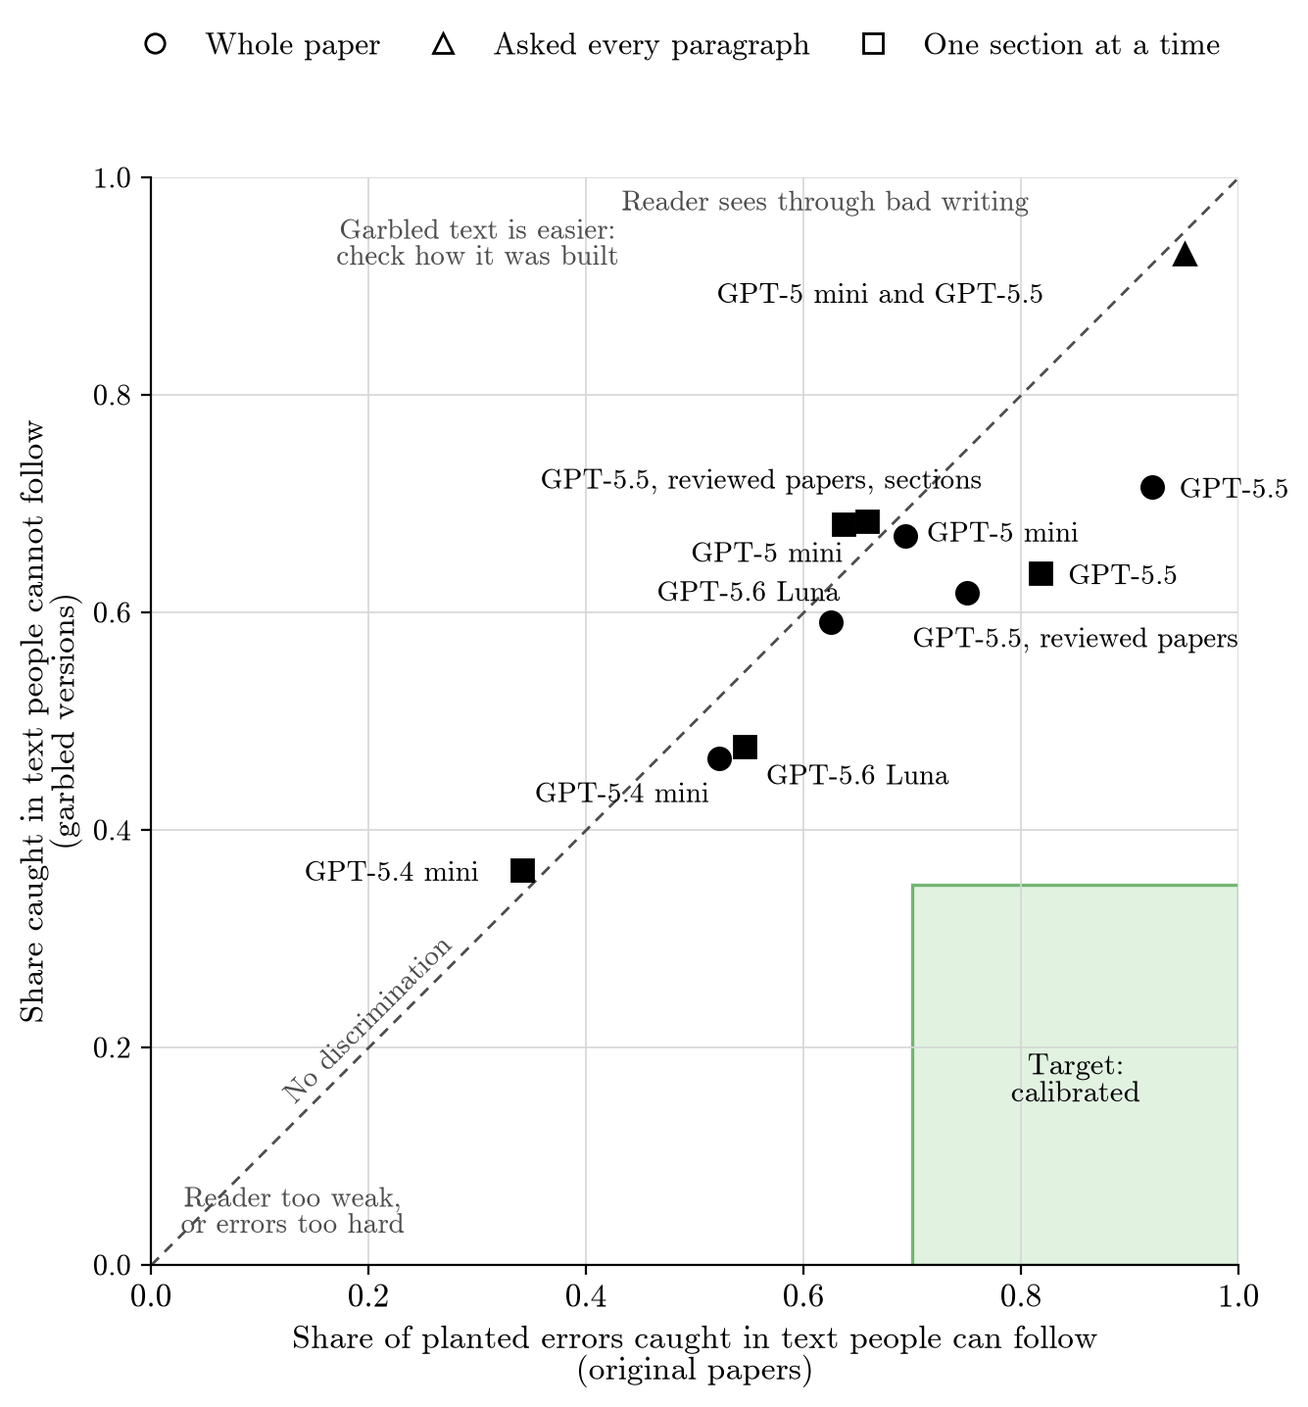
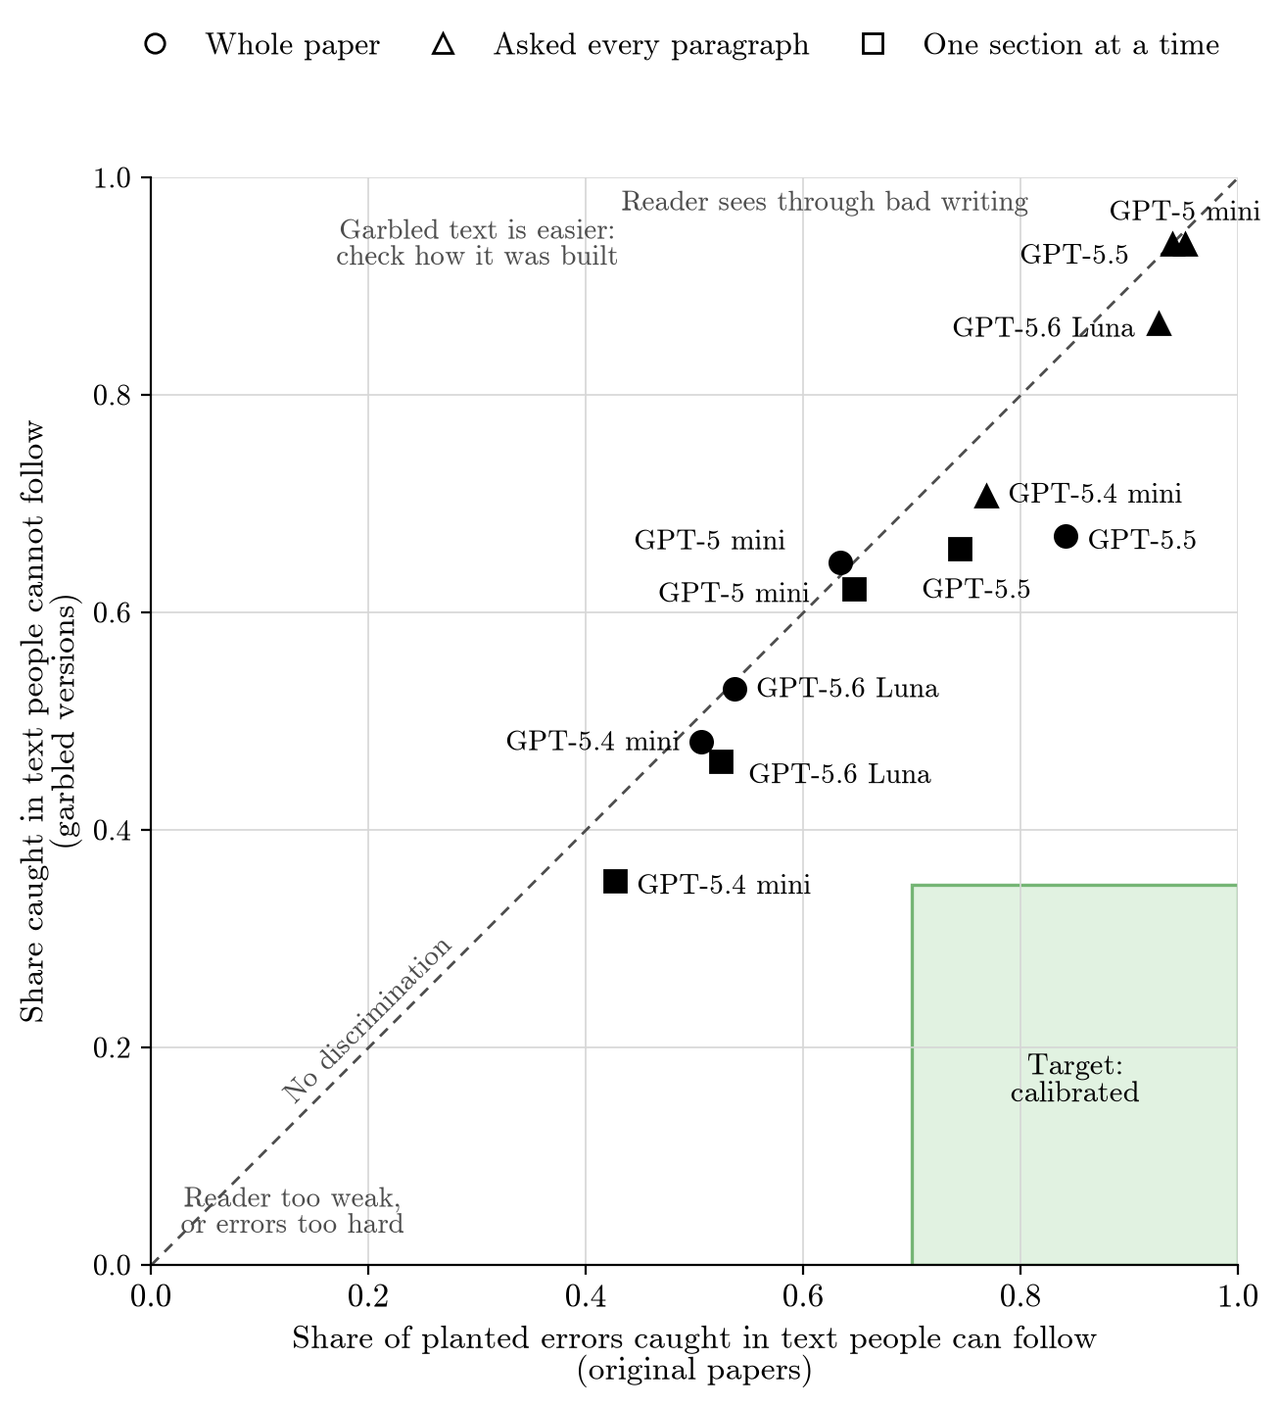
Part 2: final version, every figure pooled over ten papers with all four readers

diff --git a/posts/part-2-planted-errors.md b/posts/part-2-planted-errors.md
@@ -4,7 +4,7 @@ Jason Fantl, Averroes Labs · November 2026 · Part 2
 
 *Preliminary internal results. This follows [Part 1](part-1-quiz.md).*
 
-**TL;DR.** In Part 1, rewriting papers to be hard to follow barely lowered a model's quiz score. Here we tried a more direct test of legibility, following a suggestion from Jan Kirchner. We planted an error in a paper, asked a model to find it, and planted the same error in a garbled version of the same paper. If writing quality matters to the reader, it should find fewer errors in the garbled one. With the whole paper in view, three of our four readers found about as many errors in garbled text as in the originals. The strongest, GPT-5.5, found clearly fewer, both on the four papers we designed the test with and on six peer-reviewed papers that played no part in the design. Asked about every paragraph in turn, GPT-5 mini and GPT-5.5 caught nearly every error in every version, but flagged more correct paragraphs in the garbled versions. So bad writing rarely stops a model from judging an error, but it can cost a strong reader in search and make a reader more suspicious of correct text. Of the changes we tried, only the choice of reader and the size of its memory moved a setting toward a calibrated test, so those are the levers to work with next.
+**TL;DR.** In Part 1, rewriting papers to be hard to follow barely lowered a model's quiz score. Here we tried a more direct test of legibility, following a suggestion from Jan Kirchner. We planted an error in a paper, asked a model to find it, and planted the same error in a garbled version of the same paper. If writing quality matters to the reader, it should find fewer errors in the garbled one. With the whole paper in view, three of our four readers found about as many errors in garbled text as in the originals. The strongest, GPT-5.5, found clearly fewer, both on the four papers we designed the test with and on six peer-reviewed papers that played no part in the design. Asked about every paragraph in turn, the readers caught most errors in every version, but all four flagged more correct paragraphs in the garbled versions. So bad writing rarely stops a model from judging an error, but it can cost a strong reader in search and make any reader more suspicious of correct text. Of the changes we tried, only the choice of reader moved a setting toward a calibrated test, so that is the lever to work with next.
 
 ## Why we tried catching errors
 
@@ -18,7 +18,7 @@ His games trained a "sneaky" model to write such mistakes, which is tricky and p
 
 The test is as simple as we could make it. Plant one error in a paper and ask a weak model to review the paper for internal inconsistencies. Then plant the same error in a garbled version of the same paper and ask again, and repeat over many errors. If the reader finds fewer errors in the garbled version, its success depends on how the paper is written, which is what a legibility test needs. Nothing else is required, no quiz and no rewritten reference copy, only the paper, the errors and the reader.
 
-**Papers.** Ten in all. The first four are the papers we started with, three of Part 1's arXiv preprints and the 2014 JMLR Dropout paper. We later added six papers accepted at peer-reviewed venues, drawn at random across lengths of about 4,000 to 15,000 words before anyone read them. Some experiments ran only on the first four.
+**Papers.** Ten in all. The first four are the papers we started with, three of Part 1's arXiv preprints and the 2014 JMLR Dropout paper. We later added six papers accepted at peer-reviewed venues, drawn at random across lengths of about 4,000 to 15,000 words before anyone read them.
 
 **Garbled versions.** Each stacks every kind of difficulty we had. It compresses the paper to about two thirds of its length, swaps terms for opaque codes, moves evidence away from the claims it supports, and leaves connecting steps unstated. GPT-6.1 Sol checked it against the original until no fact or number was lost.
 
@@ -28,7 +28,7 @@ The test is as simple as we could make it. Plant one error in a paper and ask a 
 
 **Readers.** We used OpenAI models only, the API we had. From strongest to weakest by how many errors they found, they were GPT-5.5 at low effort, GPT-5 mini at high effort, GPT-5.6 Luna at low effort and GPT-5.4 mini at medium effort, and every figure orders them that way. In the main test, each reader gets the whole paper and lists any internal inconsistencies, or none. Results 2 and 3 vary how the reader is asked and how much of the paper it can see. A cheap model graded whether each review named the planted error.
 
-Everything here cost about $1,200 in API calls at OpenAI's list prices.
+Everything here cost about $1,500 in API calls at OpenAI's list prices.
 
 ## Result 1: with the whole paper, only the strongest reader finds fewer errors in garbled text
 
@@ -40,27 +40,27 @@ Each reader reviewed the whole paper and listed any internal inconsistencies. GP
 
 For three readers that made almost no difference, which is Part 1's result again from a different direction. GPT-5.5's gap is the first sign that a reader with the whole paper in view can pay for bad writing, and the first result in this project to hold on papers outside the set we designed with. It is still one reader of four on ten papers, and its catch rates on the two versions remain close enough that it cannot yet sort a single paper as legible or not.
 
-## Result 2: asked about every paragraph, the reader catches nearly every error but flags more correct text when it is garbled
+## Result 2: asked about every paragraph, readers catch most errors but flag more correct text when it is garbled
 
-![Every-paragraph check pooled over ten papers, GPT-5.5 then GPT-5 mini. Left, share of planted errors caught, about 0.94 in every version. Right, other paragraphs flagged per 1,000 words, higher in the garbled versions for both readers.](../docs/blog/part-2/fig-2-every-paragraph.png)
+![Every-paragraph check pooled over ten papers, four readers from strongest to weakest. Left, share of planted errors caught, 0.87 to 0.99 for the three stronger readers in every version. Right, other paragraphs flagged per 1,000 words, highest in the garbled versions and lowest in the clarified ones for every reader.](../docs/blog/part-2/fig-2-every-paragraph.png)
 
-**Figure 2.** The reader has the whole paper and is asked about each paragraph in turn whether it is consistent with the rest. Left, the share of planted errors caught. Right, other paragraphs flagged per 1,000 words, including real inconsistencies already in the original papers. Hatching as in Figure 1. Whiskers are 95% intervals. GPT-5.5 was not run on the clarified originals, to save cost.
+**Figure 2.** The reader has the whole paper and is asked about each paragraph in turn whether it is consistent with the rest. Left, the share of planted errors caught. Right, other paragraphs flagged per 1,000 words, including real inconsistencies already in the original papers. Hatching as in Figure 1. Whiskers are 95% intervals.
 
 Result 2 removes the search step. The reader still has the whole paper, but we ask about every paragraph in turn, so it cannot miss an error by never looking at it. Because most paragraphs hold no error, this also measures how often the reader flags correct text.
 
-GPT-5 mini caught nearly every planted error this way, in all three versions, so without the search garbling no longer hid errors. It did flag more correct paragraphs in the garbled versions, 4.3 per 1,000 words against 2.8 in the originals (a difference of 1.5, interval 1.0 to 2.1), and more on nine of the ten papers taken one at a time. GPT-5.5 behaved the same way, more mildly. It caught 0.94 of the errors in both versions and flagged 3.5 correct paragraphs per 1,000 words in the garbled versions against 2.5 in the originals (a difference of 1.0, interval 0.5 to 1.6), again more on nine of the ten papers. Some flags land on real contradictions in the original papers, such as a count given as 15,840 in the abstract and 18,480 later, and these raise every version alike. The extra flags on garbled text are a second place a legibility signal could show up, next to missed errors.
+The three stronger readers caught 0.87 to 0.99 of the planted errors this way in every version, so without the search, garbling no longer hid errors from them. GPT-5.4 mini, the weakest, caught fewer, 0.77 in the originals and 0.71 in the garbled versions. Every reader flagged more correct paragraphs in the garbled versions than in the originals, and the fewest in the clarified ones. GPT-5 mini flagged 4.3 per 1,000 words in the garbled versions against 2.8 in the originals (a difference of 1.5, interval 1.0 to 2.1), GPT-5.5 3.5 against 2.5, GPT-5.6 Luna 3.2 against 2.3, and GPT-5.4 mini, which flags least overall, 1.5 against 1.0. All four differences have intervals above zero. Some flags land on real contradictions in the original papers, such as a count given as 15,840 in the abstract and 18,480 later, and these raise every version alike. The extra flags on garbled text are a second place a legibility signal could show up, next to missed errors.
 
 We also told all four readers which passage holds the error and asked only about that passage. Each judged the error about as well in garbled text as in the original, catching 0.82 to 0.98 of errors in the garbled versions and 0.90 to 0.99 in the originals over all ten papers. So what bad writing costs these readers lies in finding errors and in flagging correct text, not in judging them.
 
-## Result 3: reading one section at a time, only GPT-5.5 found fewer errors, and not on new papers
+## Result 3: reading one section at a time, every reader found slightly fewer errors in garbled text
 
-![Share of planted errors found by readers that see one section at a time, strongest to weakest, in clarified, original and garbled versions. Only GPT-5.5 finds fewer in the garbled version on the first four papers, and not on six reviewed papers. Clarified versions score highest.](../docs/blog/part-2/fig-3-section-by-section.png)
+![Share of planted errors found by four readers that see one section at a time, pooled over ten papers, in clarified, original and garbled versions. Every reader finds slightly fewer in the garbled version and the most in the clarified one.](../docs/blog/part-2/fig-3-section-by-section.png)
 
-**Figure 3.** Share of planted errors found by readers that read each paper once, one section at a time, with notes of at most 300 words. The first four groups read the first four papers, the only ones these readers saw this way. The last group, right of the dotted line, is GPT-5.5, the one reader that showed a gap there, with its settings frozen and run on the six reviewed papers. Hatching and whiskers as in Figure 1.
+**Figure 3.** Share of planted errors found by readers that read each paper once, one section at a time, with notes of at most 300 words, pooled over all ten papers. Hatching and whiskers as in Figure 1.
 
 Result 3 makes the reader read more like a person. It goes through the paper once, one section at a time, rewrites notes of at most 300 words after each section, and cannot look back. A code defined pages earlier, or evidence far from its claim, should then cost it something.
 
-For three of the four readers it did not. GPT-5.5 found 0.82 of the errors in the originals and 0.64 in the garbled versions, a difference of 0.18 (interval 0.02 to 0.34), but with its settings frozen the difference vanished on the six reviewed papers, at 0.66 against 0.68. The clarified versions helped every reader, so reading section by section made the readers sensitive to clearer writing, but not reliably to worse writing.
+Every reader found a few more errors in the originals than in the garbled versions, from 0.02 more for GPT-5 mini to 0.09 more for GPT-5.5, but every interval includes zero. The two sets of papers also disagreed. GPT-5.5's gap was 0.18 on the first four papers and vanished on the six reviewed ones, while GPT-5.4 mini showed no gap on the first four and 0.18 on the reviewed ones. Every reader found the most errors in the clarified versions, so reading section by section made the readers sensitive to clearer writing, but not reliably to worse writing.
 
 ## Toward a calibrated test
 
@@ -68,17 +68,17 @@ The line between legible and illegible is drawn by people. A paper they can foll
 
 To calibrate, we would run a setting on text whose legibility to people we already know, such as published papers, which people can follow, and garbled versions, which they cannot. A calibrated setting catches most errors in the first and few in the second. We have not done this tuning yet. Every setting in this post was fixed before we ran it, so Figure 4 only maps where those settings landed.
 
-![Calibration map: each reader setting's catch rate on original papers against its catch rate on garbled versions. Most settings sit near the diagonal; GPT-5.5 with the whole paper sits below it, still far above the green target corner. Asked about every paragraph, GPT-5 mini and GPT-5.5 both sit at the top corner.](../docs/blog/part-2/fig-4-calibration-map.png)
+![Calibration map pooled over ten papers: each reader setting's catch rate on original papers against its catch rate on garbled versions. Most settings sit near the diagonal; GPT-5.5 with the whole paper sits below it, still far above the green target corner. Asked about every paragraph, the readers sit near the top corner.](../docs/blog/part-2/fig-4-calibration-map.png)
 
-**Figure 4.** Each point is one reader setting. Its position shows the share of planted errors caught in the original papers (horizontal) and in their garbled versions (vertical). Circles read the whole paper, triangles were asked about every paragraph, and squares read one section at a time. On the dashed diagonal a setting cannot tell the two apart, and the green corner is the target.
+**Figure 4.** Each point is one reader setting, pooled over all ten papers. Its position shows the share of planted errors caught in the original papers (horizontal) and in their garbled versions (vertical). Circles read the whole paper, triangles were asked about every paragraph, and squares read one section at a time. On the dashed diagonal a setting cannot tell the two apart, and the green corner is the target.
 
 Most settings sit near the diagonal. To calibrate, we need to know which changes move a setting off it and in which direction, so Figure 5 traces every change we have measured on the same map.
 
-![Six small calibration maps on full 0 to 1 axes, one per change: which reader, whole paper to one section at a time, smaller notes for GPT-5.5, being told where the error is, and GPT-5.5's errors split by difficulty and by distance to the evidence. Arrows show how each change moved the setting; the green corner is the target.](../docs/blog/part-2/fig-5-levers.png)
+![Six small calibration maps on full 0 to 1 axes, pooled over ten papers, one per change: which reader, whole paper to one section at a time, smaller notes for GPT-5.5, being told where the error is, and GPT-5.5's errors split by difficulty and by distance to the evidence. Arrows show how each change moved the setting; the green corner is the target.](../docs/blog/part-2/fig-5-levers.png)
 
-**Figure 5.** Each panel is the map of Figure 4, with the same axes, for one kind of change, measured on the first four papers, the only ones every setting was run on. Arrows run from the starting setting (open circle) to the changed one (filled circle). The last two panels split GPT-5.5's 44 errors by the difficulty each was built at and by how far its contradicting evidence sits, 11 to 19 errors per subset.
+**Figure 5.** Each panel is the map of Figure 4, with the same axes, for one kind of change, pooled over all ten papers. Arrows run from the starting setting (open circle) to the changed one (filled circle). The last two panels split GPT-5.5's errors into three groups each, by the difficulty each was built at and by how far its contradicting evidence sits.
 
-Only two changes moved a setting off the diagonal. The first is the choice of reader. GPT-5.5 is the one reader whose catch rate falls on garbled text, and it stays below the diagonal whether it reads the whole paper or one section at a time. The second is memory. Cutting GPT-5.5's notes from 1,200 words to 300 cost it a few errors in the originals and many more in the garbled versions, so its gap grew as the notes shrank. Everything else slid settings along the diagonal or up to the top corner. Reading one section at a time made the weaker readers miss more errors in both versions alike, and telling readers where the error is moved them all to the ceiling.
+Only one change moved a setting off the diagonal, the choice of reader. GPT-5.5 is the one reader whose catch rate falls clearly on garbled text, and it stays below the diagonal whether it reads the whole paper or one section at a time. Its memory did not matter. Cutting its notes from 1,200 words to 300 cost it errors in both versions alike, so the setting slid along the diagonal with its gap fixed at about 0.09. Everything else also slid settings along the diagonal or up to the top corner. Reading one section at a time made the weaker readers miss more errors in both versions, and telling readers where the error is moved them all to the ceiling.
 
 The errors themselves gave little to work with. Splitting GPT-5.5's errors by difficulty or by distance to the evidence moved it around a small region below the diagonal, and no subset came near the target. These subsets are small, so we read nothing more into them.
 
@@ -86,11 +86,11 @@ None of this is specific to planted errors. Part 1's quiz can be calibrated the 
 
 ## What this means
 
-A direct test of legibility needs a reader that pays something for bad writing. With the whole paper in view, three of our four readers pay almost nothing. GPT-5.5 pays in finding errors, on new papers as well as the ones we designed with, though the cost is still too small to sort a single paper. Asked about every paragraph, GPT-5 mini and GPT-5.5 pay in another way, by flagging more correct text when it is garbled.
+A direct test of legibility needs a reader that pays something for bad writing. With the whole paper in view, three of our four readers pay almost nothing. GPT-5.5 pays in finding errors, on new papers as well as the ones we designed with, though the cost is still too small to sort a single paper. Asked about every paragraph, all four readers pay in another way, by flagging more correct text when it is garbled.
 
 Several parts of the test work, and all of them need nothing but the paper itself. Errors can be planted and checked automatically, readers rarely accuse clean papers of them, a cheap grader scores reviews reliably, and pointed questions separate finding an error from judging it.
 
-The method may still work. Every reader found more errors in the clarified versions, so readers do respond to how text is written, and the two changes that moved a setting off the diagonal, a strong reader and a small memory, both make the reader pay for bad writing.
+The method may still work. Every reader found the most errors and raised the fewest false alarms in the clarified versions, so readers do respond to how text is written. A stronger reader was the one change that made a reader pay for bad writing in finding errors, and stronger readers keep arriving.
 
 ## Related work
 
@@ -105,14 +105,14 @@ People have been tested in pieces of this design, never as a whole. Peer reviewe
 ## Limitations
 
 - **Small samples.** The first four papers have 44 errors and the six reviewed papers 38. That gives intervals of about ±0.1 on rates over all ten papers and ±0.15 on rates over four.
-- **Many tries.** We tried several readers and ways of asking, and two combinations, both with GPT-5.5, showed a difference on the first four papers. In that many tries, some result is likely to look good by chance. The section-by-section difference did not hold on the reviewed papers and the whole-paper one did, but it is still one reader on ten papers. The false-alarm difference in Result 2 was not planned as a test before we saw it, and its intervals cover paragraphs, not differences between papers.
+- **Many tries.** We tried several readers and ways of asking, and in that many tries some result is likely to look good by chance. Section-by-section gaps appeared for one reader on one set of papers and not on the other. GPT-5.5's whole-paper gap held on both sets, but it is still one reader on ten papers. The false-alarm difference in Result 2 was not planned as a test before we saw it, and its intervals cover paragraphs, not differences between papers.
 - **The garbled versions were not checked with people.** We assume they are hard for a person to follow, and Result 1 suggests they are not hard for most models. If they are easy for people too, the test was never really challenged.
 - **Legibility to people is assumed, not measured.** We treat the original and peer-reviewed papers as legible because they were written and reviewed for people. We have not measured how people read them.
 - **One provider.** Every reader, writer and grader was an OpenAI model, so their blind spots may be shared.
 - **Our errors.** We chose the error templates. Two kinds, a result left out of a summary and a claim with no support, could not yet be tested properly, and naturally occurring errors may behave differently.
 - **A strong model is the referee.** GPT-6.1 Sol built and checked the errors, the garbled versions and the clarified versions. Its own mistakes would pass into the results unnoticed.
 
-The next step is to calibrate for real. We would try these levers on the first four papers, pick a setting by a rule fixed in advance, check it on the six reviewed papers, and only then run it once on nine papers held out from everything so far. The repository that accompanies this post holds the code, prompts, raw model outputs and every experiment's preregistered predictions, so each result here can be rerun. A detailed reference report written for AI agents, [`docs/part2-agent-report.md`](../docs/part2-agent-report.md), gathers every number behind this post with its source, so an agent can answer questions about it without searching the repository.
+The next step is to calibrate for real. We would try these levers on the first four papers, pick a setting by a rule fixed in advance, check it on the six reviewed papers, and only then run it once on nine papers held out from everything so far. The repository that accompanies this post holds the code, prompts, raw model outputs and every experiment's preregistered predictions, so each result here can be rerun. A detailed reference report written for AI agents, docs/part2-agent-report.md, gathers every number behind this post with its source, so an agent can answer questions about it without searching the repository.
 
 ---
 
